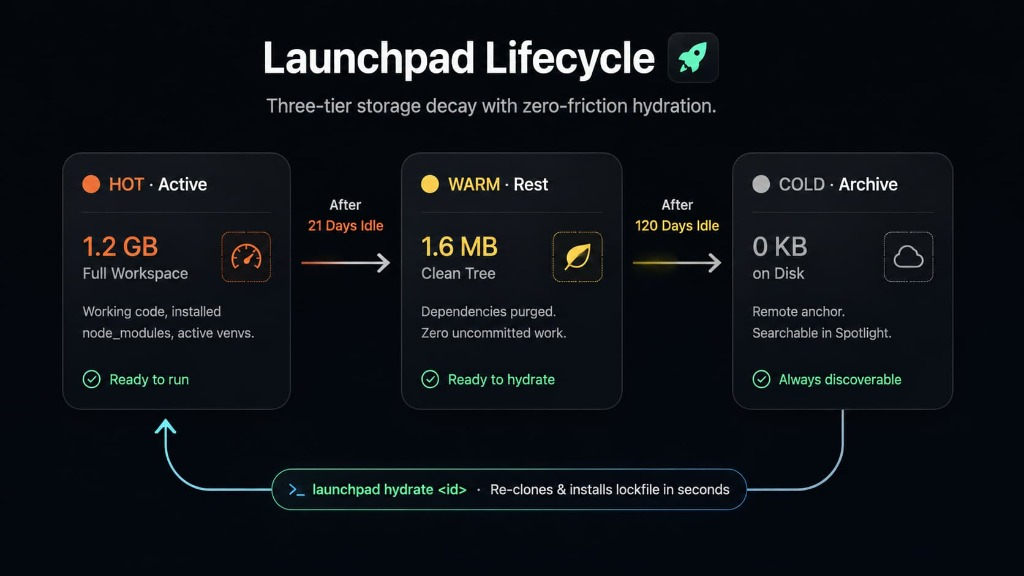
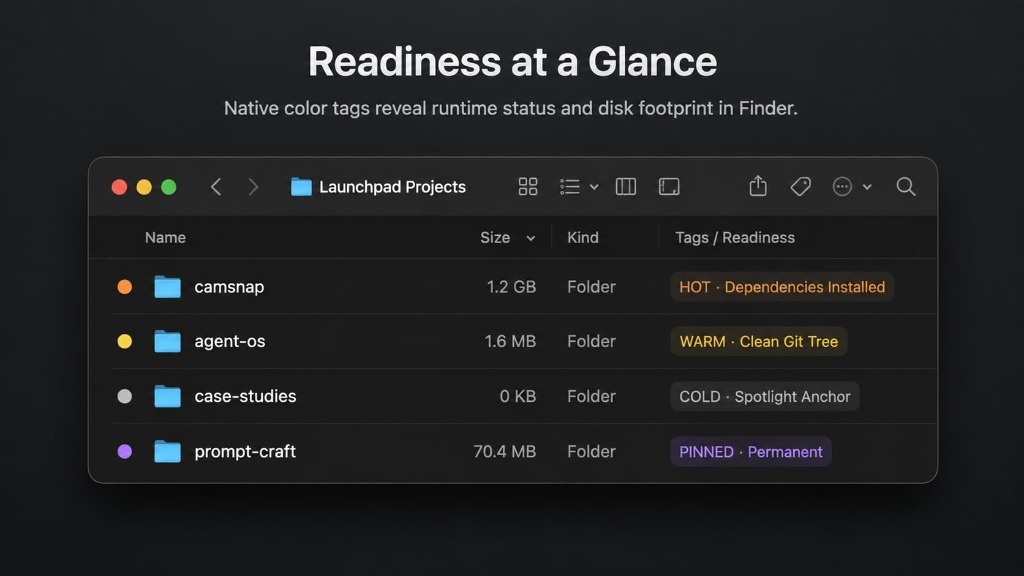
docs: replace finder-tags with authentic Readiness at a Glance visual

diff --git a/README.md b/README.md
@@ -64,7 +64,7 @@ Launchpad generates lightweight `.webloc` shortcut files inside the disposable `
 </div>
 
 ### 2. Readiness at a Glance (Finder Tags)
-Launchpad applies native macOS color tags (`libc.setxattr`) directly to your project folders. When browsing Finder, runtime readiness and disk state are visible without opening a terminal.
+Launchpad writes native macOS color tags (`libc.setxattr`) directly to your project folders. When browsing Finder, runtime readiness and disk state are visible without opening a terminal.
 
 <div align="center">
   <img src="assets/finder-tags.jpg" alt="Native macOS Finder Tags Readiness at a Glance" width="85%" style="border-radius: 12px;" />
